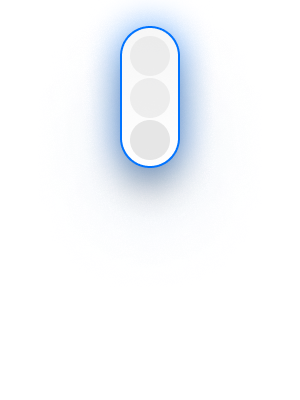
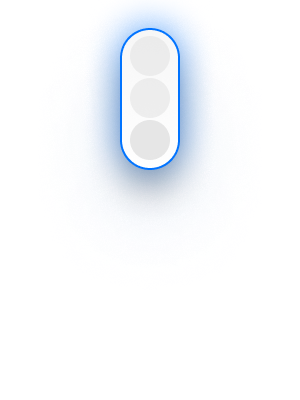
Fix traffic light assets and start fix traffic light padding fly to

diff --git a/lib/ride/views/main.dart b/lib/ride/views/main.dart
@@ -196,67 +196,62 @@ class RideViewState extends State<RideView> {
       onPopInvoked: (type) async => false,
       child: Scaffold(
         body: ScreenTrackingView(
-          child: SafeArea(
-            top: false,
-            bottom: false,
-            child: Stack(
-              alignment: Alignment.bottomCenter,
-              clipBehavior: Clip.none,
-              children: [
-                RideMapView(
-                  onMapMoved: onMapMoved,
-                  cameraFollowUserLocation: cameraFollowsUserLocation,
-                ),
-                if (settings.saveBatteryModeEnabled)
-                  Positioned(
-                    top: MediaQuery.of(context).padding.top + 15,
-                    left: 10,
-                    child: const Image(
-                      width: 100,
-                      image: AssetImage('assets/images/mapbox-logo-transparent.png'),
-                    ),
-                  ),
-                if (settings.saveBatteryModeEnabled)
-                  Positioned(
-                    top: MediaQuery.of(context).padding.top + 5,
-                    right: 10,
-                    child: IconButton(
-                      onPressed: () => MapboxAttribution.showAttribution(context),
-                      icon: const Icon(
-                        Icons.info_outline_rounded,
-                        size: 25,
-                        color: CI.radkulturRed,
-                      ),
-                    ),
-                  ),
+          child: Stack(
+            alignment: Alignment.bottomCenter,
+            clipBehavior: Clip.none,
+            children: [
+              RideMapView(
+                onMapMoved: onMapMoved,
+                cameraFollowUserLocation: cameraFollowsUserLocation,
+              ),
+              if (settings.saveBatteryModeEnabled)
                 Positioned(
-                  right: positionSpeedometerRight,
-                  child: RideSpeedometerView(puckHeight: heightToPuckBoundingBox),
+                  top: MediaQuery.of(context).padding.top + 15,
+                  left: 10,
+                  child: const Image(
+                    width: 100,
+                    image: AssetImage('assets/images/mapbox-logo-transparent.png'),
+                  ),
                 ),
-                const DatastreamView(),
-                const FinishRideButton(),
-                if (!cameraFollowsUserLocation)
-                  SafeArea(
-                    bottom: true,
-                    child: Padding(
-                      padding: paddingCenterButton,
-                      child: BigButtonPrimary(
-                        label: "Zentrieren",
-                        elevation: 20,
-                        onPressed: () {
-                          final ride = getIt<Ride>();
-                          if (ride.userSelectedSG != null) ride.unselectSG();
-                          setState(() {
-                            cameraFollowsUserLocation = true;
-                          });
-                        },
-                        boxConstraints:
-                            BoxConstraints(minWidth: MediaQuery.of(context).size.width * 0.3, minHeight: 50),
-                      ),
+              if (settings.saveBatteryModeEnabled)
+                Positioned(
+                  top: MediaQuery.of(context).padding.top + 5,
+                  right: 10,
+                  child: IconButton(
+                    onPressed: () => MapboxAttribution.showAttribution(context),
+                    icon: const Icon(
+                      Icons.info_outline_rounded,
+                      size: 25,
+                      color: CI.radkulturRed,
                     ),
                   ),
-              ],
-            ),
+                ),
+              Positioned(
+                right: positionSpeedometerRight,
+                child: RideSpeedometerView(puckHeight: heightToPuckBoundingBox),
+              ),
+              const DatastreamView(),
+              const FinishRideButton(),
+              if (!cameraFollowsUserLocation)
+                SafeArea(
+                  bottom: true,
+                  child: Padding(
+                    padding: paddingCenterButton,
+                    child: BigButtonPrimary(
+                      label: "Zentrieren",
+                      elevation: 20,
+                      onPressed: () {
+                        final ride = getIt<Ride>();
+                        if (ride.userSelectedSG != null) ride.unselectSG();
+                        setState(() {
+                          cameraFollowsUserLocation = true;
+                        });
+                      },
+                      boxConstraints: BoxConstraints(minWidth: MediaQuery.of(context).size.width * 0.3, minHeight: 50),
+                    ),
+                  ),
+                ),
+            ],
           ),
         ),
       ),

diff --git a/lib/ride/views/map.dart b/lib/ride/views/map.dart
@@ -507,26 +507,40 @@ class RideMapViewState extends State<RideMapView> {
           final orientation = MediaQuery.of(context).orientation;
           final mapbox.MbxEdgeInsets padding;
 
+          final isBatterySaveModeEnabled = getIt<Settings>().saveBatteryModeEnabled;
+          final deviceWidth = MediaQuery.of(context).size.width;
+          final deviceHeight = MediaQuery.of(context).size.height;
+          final pixelRatio = MediaQuery.of(context).devicePixelRatio;
+
+          // Get the scaled width and height.
+          double scaleWidth = deviceWidth * (pixelRatio / Settings.scalingFactor);
+          double scaleHeight = deviceHeight * (pixelRatio / Settings.scalingFactor);
+
           if (orientation == Orientation.portrait) {
-            padding = mapbox.MbxEdgeInsets(top: 0, left: 0, bottom: 200, right: 0);
+            // We need to consider the scale factor in battery save mode.
+            if (isBatterySaveModeEnabled) {
+              // Note: these values can change since only ios currently needs to consider the scale factor.
+              if (Platform.isIOS) {
+                padding = mapbox.MbxEdgeInsets(top: 0, left: 0, bottom: scaleHeight * 0.05, right: 0);
+              } else {
+                padding = mapbox.MbxEdgeInsets(top: 0, left: 0, bottom: deviceHeight * 0.05, right: 0);
+              }
+            } else {
+              padding = mapbox.MbxEdgeInsets(top: 0, left: 0, bottom: deviceHeight * 0.05, right: 0);
+            }
           } else {
             // Landscape-Mode: Set user-puk to the left and a little down
             // The padding must be different if battery save mode is enabled by user because the map is rendered differently
-            final isBatterySaveModeEnabled = getIt<Settings>().saveBatteryModeEnabled;
-            final deviceWidth = MediaQuery.of(context).size.width;
-            final deviceHeight = MediaQuery.of(context).size.height;
-            final pixelRatio = MediaQuery.of(context).devicePixelRatio;
+            // We need to consider the scale factor in battery save mode for ios.
             if (isBatterySaveModeEnabled) {
-              if (Platform.isAndroid) {
-                padding = mapbox.MbxEdgeInsets(
-                    top: deviceHeight * 0.45, left: 0, bottom: 200, right: deviceWidth * pixelRatio * 0.165);
+              // Note: these values can change since only ios currently needs to consider the scale factor.
+              if (Platform.isIOS) {
+                padding = mapbox.MbxEdgeInsets(top: scaleHeight * 0.05, left: 0, bottom: 0, right: scaleWidth * 0.5);
               } else {
-                padding = mapbox.MbxEdgeInsets(
-                    top: deviceHeight * 0.45, left: 0, bottom: 200, right: deviceWidth * pixelRatio * 0.42);
+                padding = mapbox.MbxEdgeInsets(top: 0, left: 0, bottom: 0, right: scaleWidth * 0.5);
               }
             } else {
-              padding = mapbox.MbxEdgeInsets(
-                  top: deviceHeight * 0.45, left: 0, bottom: 200, right: deviceWidth * pixelRatio * 0.42);
+              padding = mapbox.MbxEdgeInsets(top: deviceHeight * 0.05, left: 0, bottom: 0, right: deviceWidth * 0.5);
             }
           }
 
